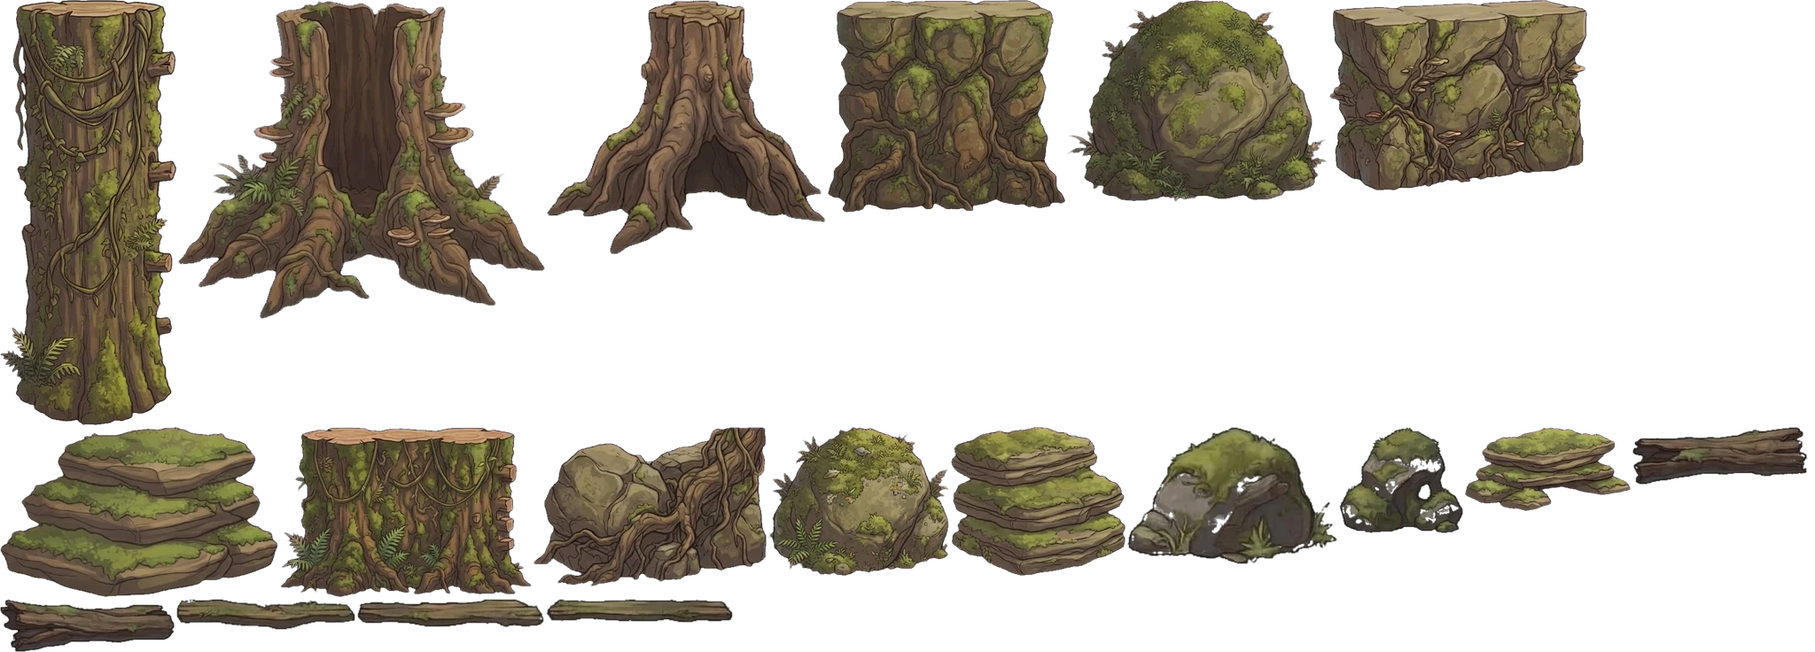
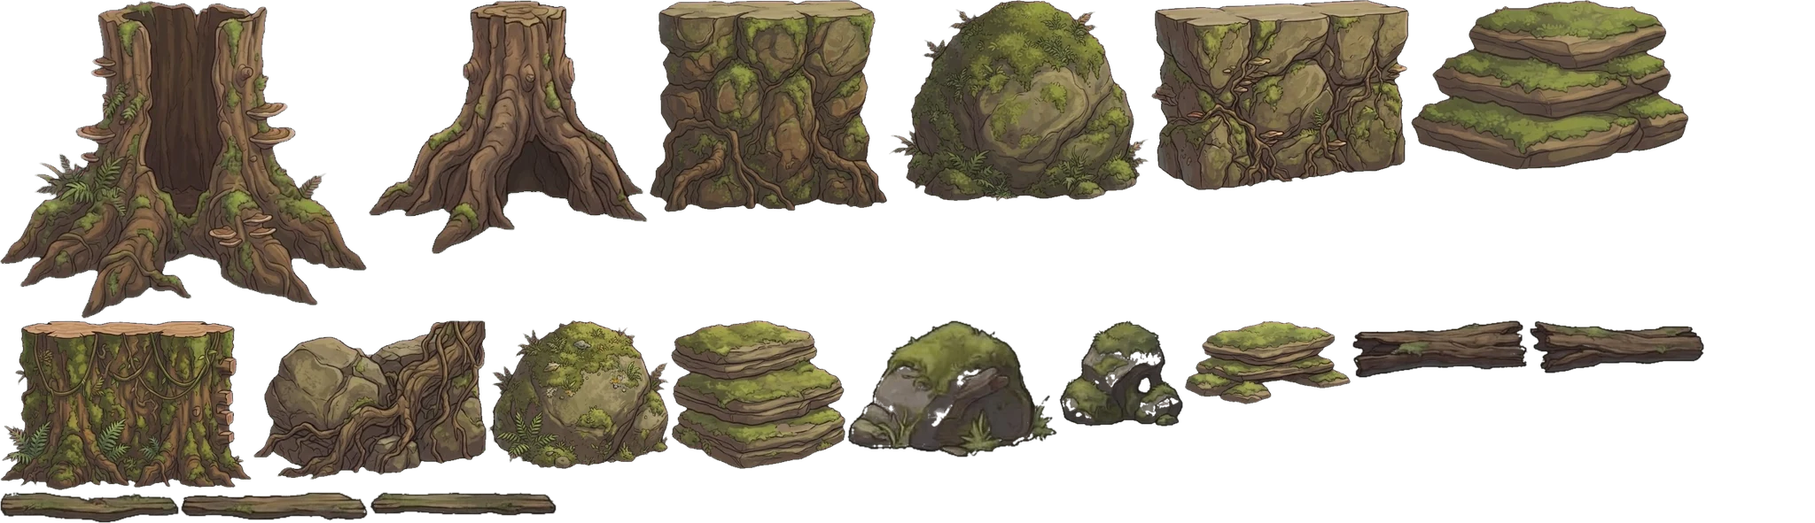
0.9.5 release rulings (the lead 11-06): 1-5 back to main's (its builder block, its petal goal, the stagePlan line and W1's words, stage15.test as on main; the mixer's 1-5 for later, R-165.45); roofedDrop on gen2-built stages only (4-9 as on main); stage11gen2's double-after-teach promise kept (a sof
Lock against main (16 layouts): 1-5, 1-6, 4-9, 5-9 identical.

Claude-Session: https://claude.ai/code/session_01FhBbYNa68MoMsiQdv2EJXg

diff --git a/src/game/stage15.test.ts b/src/game/stage15.test.ts
@@ -1,10 +1,8 @@
 import test from 'node:test';
 import assert from 'node:assert/strict';
-import { buildProtoStage, EXPERT_SECONDS } from './protoStage.ts';
-import { specFor } from './mixer/stages.ts';
-import { modelAll } from './stageTime.ts';
+import { buildProtoStage, EXPERT_SECONDS, G, PETAL_GOAL_15 } from './protoStage.ts';
 import { badPickups } from './flowerReach.ts';
-import { reachJump, JUMP_RISE, DOUBLE_RISE } from './physics.ts';
+import { reachJump, JUMP_RISE } from './physics.ts';
 import type { LevelConfig } from './types.ts';
 
 const cfg = {
@@ -13,92 +11,55 @@ const cfg = {
 } as LevelConfig;
 const SEEDS = Array.from({ length: 20 }, (_, i) => 1 + i * 41);
 
-// 1-5 is built by the level engine from its spec (mixer/stages.ts SPEC_15): the old builder's tests are kept promise for promise on the
-// mixed stage (engine-core, 11-05). The old stage asked for petals; the mixed 1-5 is a relic hunt for Meeca's marks (stagePlan.ts), so its
-// goal promises are made of its marks. Where the old test named the old stage's shape (its four beats, the ground line G, the lookout at
-// y 300), the new one names the spec's own (its nodes, its test nodes, the death line, the ledge before the seed).
-const SPEC = specFor('1-5')!;
-const marks = (st: { collectibles: Array<{ type: string; mark?: string }> }) => st.collectibles.filter((c) => c.type === 'relic' && c.mark === 'meeca');
-const deathOf = (st: { waterY?: number; config: LevelConfig }) => st.waterY ?? st.config.levelHeight;
-
-test('1-5: every roll keeps the plan (the spec\'s nodes in order), asks for its goal out of about one and a half times that, and takes two minutes', () => {
-  // (Normal's plan: a node laid on Easy only is not on it)
-  const jobs = [...new Set(SPEC.nodes.filter((n) => !n.lay?.easyOnly).map((n) => n.job))];
+test('1-5: every roll keeps the plan, asks for 77 petals out of about one and a half times that, and takes two minutes', () => {
   for (const s of SEEDS) {
     const st = buildProtoStage(cfg, s, '1-5');
-    assert.deepEqual([...new Set(st.proto.beats.map((b) => b[2].split(':')[0]))], jobs, `seed ${s}`);
-    const goal = st.normalGoal ?? st.config.targetCount;
-    const held = marks(st).length;
-    assert.ok(held >= goal * 1.4 && held <= goal * 1.6, `seed ${s}: ${held} marks for a goal of ${goal}`);
-    const fast = modelAll(st).fast.total;
-    assert.ok(fast >= EXPERT_SECONDS - 15, `seed ${s}: ${fast.toFixed(0)} s`);
-    assert.equal(st.proto.movedPickups ?? 0, 0, `seed ${s}`);
+    assert.deepEqual(st.proto.beats.map((b) => b[2].split(':')[0]), ['Start', 'Test', 'Twist', 'Finish'], `seed ${s}`);
+    assert.equal(st.config.targetCount, PETAL_GOAL_15);
+    const petals = st.collectibles.filter((c) => c.type === 'flower').length;
+    assert.ok(petals >= PETAL_GOAL_15 * 1.4 && petals <= PETAL_GOAL_15 * 1.6, `seed ${s}: ${petals} petals`);
+    assert.ok(st.meta!.timing!.layoutSeconds >= EXPERT_SECONDS - 15, `seed ${s}`);
+    assert.equal(st.proto.movedPickups, 0, `seed ${s}`);
     assert.equal(badPickups({ platforms: st.platforms, vines: st.vines, ropes: st.ropes, waterY: st.waterY }, st.collectibles).length, 0, `seed ${s}`);
   }
 });
 
-test('1-5: the test asks for every move so far: a climb, a double jump and a bounce (the rope and the punch: the next test)', () => {
+test('1-5: the test asks for every move so far: a climb, a rope, a double jump, a bounce and a punch', () => {
   for (const s of SEEDS) {
     const st = buildProtoStage(cfg, s, '1-5');
-    const tests = st.proto.beats.filter((b) => b[2].startsWith('test '));
-    assert.ok(tests.length, `seed ${s}: no test node`);
-    const inside = (x: number) => tests.some(([x0, x1]) => x >= x0 && x <= x1);
+    const [x0, x1] = st.proto.beats.find((b) => b[2].startsWith('Test'))!;
+    const inside = (x: number) => x >= x0 && x <= x1;
     assert.ok(st.vines.some((v) => v.vineType === 'tree_climb' && inside(v.x)), `seed ${s}: a climb`);
+    assert.ok(st.ropes!.some((r) => inside(r.x0)), `seed ${s}: a rope`);
     assert.ok(st.platforms.some((p) => p.type === 'bouncy' && inside(p.x)), `seed ${s}: a bounce`);
-    // pickups higher than one jump reaches from the piece under them, with nothing to stand on near them: double-jump pickups
-    const high = st.collectibles.filter((c) => (c.type === 'flower' || c.type === 'relic') && inside(c.x) && (() => {
-      const under = st.platforms.filter((p) => c.x >= p.x && c.x <= p.x + p.width && p.y > c.y).sort((a, b) => a.y - b.y)[0];
-      return !!under && under.y - c.y > JUMP_RISE + 20 + 34 && !st.platforms.some((p) => p !== under && p.y < under.y - 20 && p.y > c.y - 20 && c.x >= p.x - 40 && c.x <= p.x + p.width + 40);
-    })());
-    assert.ok(high.length >= 3, `seed ${s}: double-jump pickups (${high.length})`);
-  }
-});
-
-// (the lead, 11-06 9:21 AM, and the designer: the mixer has no rope idea and no punch idea, and gets no new beat (it is being retired). The
-// promise stays, run and reported as a known failure by name, carried to 1-5's move to gen2 (the designer's rope-gap spec is on file))
-test('1-5: the test asks for a rope and a punch', { todo: "known: the mixer's library has no rope or punch idea; carried to 1-5's gen2 move (lead 11-06 9:21 AM)" }, () => {
-  for (const s of SEEDS) {
-    const st = buildProtoStage(cfg, s, '1-5');
-    const tests = st.proto.beats.filter((b) => b[2].startsWith('test '));
-    const inside = (x: number) => tests.some(([x0, x1]) => x >= x0 && x <= x1);
-    assert.ok((st.ropes ?? []).some((r) => inside(r.x0)), `seed ${s}: a rope`);
     assert.ok(st.enemies.some((e) => inside(e.x)), `seed ${s}: something to punch`);
+    // petals higher than one jump reaches, over gaps only a double jump crosses
+    const high = st.collectibles.filter((c) => c.type === 'flower' && inside(c.x) && G - c.y > JUMP_RISE + 20 + 34 && !st.platforms.some((p) => p.y < G - 20 && c.x >= p.x - 40 && c.x <= p.x + p.width + 40));
+    assert.ok(high.length >= 3, `seed ${s}: double-jump petals (${high.length})`);
   }
 });
 
-// (the old 1-5's keepsake in a Hush Fern up a tree (protoStage.ts lookout): the mixer lays the find at the end and gets no new beat (the
-// lead, 11-06 9:21 AM); run and reported as a known failure by name, carried to 1-5's gen2 move)
-test('1-5: the keepsake hides in a fern up a tree', { todo: "known: the mixer lays the find at the stage's end, no fern-tree beat; carried to 1-5's gen2 move (lead 11-06 9:21 AM)" }, () => {
+test('1-5: creaking branches hold petals over safe ground (never needed to get through), the keepsake hides in a fern up a tree, a seed waits for the glide', () => {
   for (const s of SEEDS) {
     const st = buildProtoStage(cfg, s, '1-5');
-    const fern = st.collectibles.filter((c) => c.type === 'find');
-    assert.equal(fern.length, 1, `seed ${s}`);
-    assert.equal(fern[0].findId, 'w1_keepsake');
-    assert.equal(fern[0].hidden, true);
-    const floor = st.platforms.filter((p) => fern[0].x >= p.x && fern[0].x <= p.x + p.width && p.y > fern[0].y).sort((a, b) => b.y - a.y)[0];
-    assert.ok(floor && floor.y - fern[0].y > 200, `seed ${s}: up a tree`);
-  }
-});
-
-test('1-5: creaking branches over safe ground; no seed, but a glint out of reach where Dot says "Something shiny" (ruling (b)); the keepsake: the test before', () => {
-  for (const s of SEEDS) {
-    const st = buildProtoStage(cfg, s, '1-5');
-    const death = deathOf(st);
     const creaky = st.platforms.filter((p) => p.type === 'fragile');
     assert.ok(creaky.length >= 8, `seed ${s}`);
     for (const p of creaky) {
       const mid = p.x + p.width / 2;
-      assert.ok(st.platforms.some((q) => q !== p && q.type !== 'fragile' && q.y > p.y && q.y < death && q.x <= mid && q.x + q.width >= mid), `seed ${s}: nothing safe under the creaking branch at ${p.x}`);
+      assert.ok(st.platforms.some((q) => q.y === G && q.x <= mid && q.x + q.width >= mid), `seed ${s}: ground under the creaking branch at ${p.x}`);
     }
-    // (the seed waits for the glide, the designer's ruling (b) at CP3, restated 11-06: 1-5 lays no seed, and SHOWS it: a glint at the
-    // puzzle beat, out of every jump's reach, where Dot says "Something shiny, far away...")
-    assert.equal(st.collectibles.filter((c) => c.type === 'seed').length, 0, `seed ${s}: 1-5 lays no seed`);
-    const puzzle = st.proto.beats.filter((b) => b[2].startsWith('puzzle beat'));
-    const inPuzzle = (x: number) => puzzle.some(([x0, x1]) => x >= x0 - 200 && x <= x1 + 200);
-    const glint = (st.proto.glints ?? []).find((g) => inPuzzle(g.x));
-    assert.ok(glint, `seed ${s}: a glint at the puzzle beat`);
-    const near = st.platforms.filter((p) => p.x <= glint!.x + 200 && p.x + p.width >= glint!.x - 200);
-    assert.ok(near.every((p) => p.y - glint!.y > DOUBLE_RISE + 60), `seed ${s}: the glint out of reach (y ${glint!.y})`);
-    assert.ok((st.proto.hints ?? []).some((h) => /Something shiny/.test(h.text) && inPuzzle(h.x)), `seed ${s}: Dot's "Something shiny" at the puzzle beat`);
+    const fern = st.collectibles.filter((c) => c.type === 'find');
+    assert.equal(fern.length, 1);
+    assert.equal(fern[0].findId, 'w1_keepsake');
+    assert.equal(fern[0].hidden, true);
+    assert.ok(G - fern[0].y > 200, `seed ${s}: up a tree`);
+    // the far seed: past a double jump from the lookout, inside a glide
+    const seeds = st.collectibles.filter((c) => c.type === 'seed');
+    const far = seeds.find((c) => !st.platforms.some((p) => p.type === 'bouncy' && Math.abs(p.x - c.x) < 260));
+    assert.ok(far, `seed ${s}: a glide seed`);
+    const lookout = st.platforms.filter((p) => p.y === 300 && p.x < far!.x).sort((a, b) => b.x - a.x)[0];
+    const ledge = st.platforms.find((p) => far!.x >= p.x && far!.x <= p.x + p.width && Math.abs(p.y - (far!.y + 34)) < 2)!;
+    const gap = ledge.x - (lookout.x + lookout.width);
+    assert.ok(gap > reachJump(lookout.y - ledge.y, true) * 1.15, `seed ${s}: a double jump falls short (${gap})`);
   }
 });

diff --git a/src/game/protoStage.ts b/src/game/protoStage.ts
@@ -57,7 +57,8 @@ import { w1DressWidth } from './w1NewArt.ts';
 import { specFor as specForAll } from './mixer/stages.ts';
 import { skip11Spec } from './testlink1_1.ts';
 /** a stage's mixer spec, except 1-1 on the test link's 'Old 1-1' pick (testlink1_1.ts: main's builder as it is) */
-const specFor = (id: string) => (skip11Spec(id) ? undefined : specForAll(id as never));
+// (1-5 stays main's in 0.9.5, the lead 11-06: the mixer's 1-5 waits for a later release (R-165.45), so its spec is not used)
+const specFor = (id: string) => (skip11Spec(id) || id === '1-5' ? undefined : specForAll(id as never));
 import { clearDress, ownPetals, placeSeed } from './mixer/post.ts';
 import { dressSize } from './dressArt.ts';
 import { inDoorBox } from './mixer/propSupport.ts';
@@ -1969,6 +1970,37 @@ function buildPlan(config: LevelConfig, seed: number, plan: StagePlan, easy = fa
     run(R.r(190, 230));
     expert += (x - x0) / RUN + 1.6;
     pieces.push({ k: 'snakes', x0, x1: x });
+  }
+
+  // (main's 1-5, restored for 0.9.5: the mixer's 1-5 waits for a later release, R-165.45)
+  if (plan === '1-5') {
+    // 1-5 More Petals: everything so far, mixed. Every group of petals asks for a different move (a climb, a rope, a double jump, a
+    // bounce, a punch), then the petals go onto creaking branches that give way: grab and keep moving. The keepsake hides in a fern
+    // up a tree, and a seed far out from a lookout waits for the Leaf Glide.
+    // (Rebuilt 2026-10-28: a dip or a rock between the groups, and a finish of climbs, ropes, creaking runs and snakes, where 1-2's
+    // trail is bounces and stairs: the two read as different stages now.)
+    beat('Start', () => {
+      rest(R.r(400, 440));
+      busy(1, ['log']);
+      flag();
+    });
+    beat('Test: a move for every group', () => {
+      hint(x + 40, 'Every group of petals needs a different move', 'Every group of petals needs a different move', 'Every group of petals needs a different move');
+      // (every version climbs the tree with the keepsake in its fern: w1Sections.ts)
+      section('develop');
+      flag();
+    });
+    beat('Twist: creaking branches', () => {
+      hint(x + 60, 'Creaky branches! Grab the petals and keep moving', 'Creaky branches! Grab the petals and keep moving', 'Creaky branches! Grab the petals and keep moving');
+      section('twist');
+      flag();
+    });
+    beat('Finish', () => {
+      section('finish');
+      glideLookout();
+      homeRun();
+    });
+    thinFinish(135);
   }
 
   /** the bush sizes (px wide); each painting keeps its own shape */
@@ -5341,7 +5373,7 @@ function buildPlan(config: LevelConfig, seed: number, plan: StagePlan, easy = fa
   C.push({ id: cid++, type: 'exit_totem', x: exitX, y: G - 30, collected: false, bobPhase: 0 });
 
   const width = Math.ceil(x + 20);
-  const cfg: LevelConfig = { ...config, levelWidth: width, levelHeight: Math.max(config.levelHeight, 900), ...(plan === '1-2' ? { targetCount: PETAL_GOAL_12 } : plan === '1-3' ? { targetCount: SNAKE_GOAL_13 } : plan === '1-9' ? { targetCount: GUARD_GOAL_19 } : plan === '3-3' ? { targetCount: PROWLER_GOAL_33 } : plan === '3-6' ? { targetCount: GRANDMA_GOAL_36 } : plan === '3-7' ? { targetCount: GRANDMA_GOAL_37 } : plan === '3-9' ? { targetCount: PROWLER_GOAL_39 } : plan === '4-8' ? { targetCount: NEST_GOAL_48 } : {}) };
+  const cfg: LevelConfig = { ...config, levelWidth: width, levelHeight: Math.max(config.levelHeight, 900), ...(plan === '1-2' ? { targetCount: PETAL_GOAL_12 } : plan === '1-3' ? { targetCount: SNAKE_GOAL_13 } : plan === '1-5' ? { targetCount: PETAL_GOAL_15 } : plan === '1-9' ? { targetCount: GUARD_GOAL_19 } : plan === '3-3' ? { targetCount: PROWLER_GOAL_33 } : plan === '3-6' ? { targetCount: GRANDMA_GOAL_36 } : plan === '3-7' ? { targetCount: GRANDMA_GOAL_37 } : plan === '3-9' ? { targetCount: PROWLER_GOAL_39 } : plan === '4-8' ? { targetCount: NEST_GOAL_48 } : {}) };
   cid = heartsAtFlags(C, checkpoints, cid);
   // the puzzle rooms' own platforms (a seesaw's two ends, a gate's door): added once, here, so the game and the check see the same ground
   const kit: KitExtras | undefined = ROOMS.length ? { rooms: ROOMS } : undefined;

diff --git a/src/game/w1Pits.test.ts b/src/game/w1Pits.test.ts
@@ -57,10 +57,14 @@ test("1-8's long branch: the holes between the chase's sections are falls", () =
 test('World 1, layout 1: the vault pits are soft pits with steps; the only unmarked floorless gaps outside 1-8 are 1-6\'s water', () => {
   const soft: Record<string, number> = {}, falls: Record<string, number> = {};
   for (const id of ['1-1', '1-2', '1-3', '1-4', '1-5', '1-6', '1-7', '1-8', '1-9']) {
-    const g = findW1Pits(new RealPlay(id, 1).platforms);
+    const sim = new RealPlay(id, 1);
+    const g = findW1Pits(sim.platforms);
+    // (gen2's soft level gaps, heartFalls `soft`: a fall there puts him back on the take-off and draws a painted pit floor (stills,
+    // reference/qa-reports/engine-core/soft-gap): a soft pit, not water)
+    const softZones = (sim.stage.heartFalls ?? []).filter((z) => z.soft);
     soft[id] = g.filter((q) => q.kind === 'soft').length;
     // (unmarked floorless gaps, read as water: a builder's marked drop, `pit: 'drop'`, is a pit and is not counted here)
-    falls[id] = g.filter((q) => q.kind === 'fall' && !q.drop).length;
+    falls[id] = g.filter((q) => q.kind === 'fall' && !q.drop && !softZones.some((z) => q.x0 >= z.x0 - 4 && q.x1 <= z.x1 + 4)).length;
     // (a way out: a step standing in the pit, or the floor itself within a sunk step (75 px, findW1Pits' own rule) of the lower lip,
     // so he walks or hops straight out: 1-2's rebuilt root tier, layout 1, floor 930 against the bank at 880; the lead, 2026-11-04)
     for (const q of g.filter((q) => q.kind === 'soft')) assert.ok((q.steps ?? []).length >= 1 || q.floor! - q.top <= SUNK_STEP, `${id} ${q.x0}: a soft pit with no step out`);
@@ -129,9 +133,8 @@ test("World 1, 16 layouts: every painted drop has a bank of earth at both sides 
   }
   // (engine-core: only the mixer's stages mark drops, so drawW1Pits, which paints marked drops only, leaves every other World 1 stage
   // to main's painting; the rebuild's 1-3 box, R-164.6, is not on main)
-  for (const id of ['1-2', '1-3', '1-4', '1-6', '1-7', '1-8', '1-9']) for (const s of [1, 2]) assert.ok(!new RealPlay(id, s).platforms.some((q) => q.pit === 'drop'), `${id} layout ${s} marks a drop`);
-  // (1-1's Play is gen2 since 11-06, its drops painted by its own look: only the mixer's 1-5 marks drops now)
-  for (const id of ['1-5']) assert.ok(new RealPlay(id, 1).platforms.some((q) => q.pit === 'drop'), `${id} marks its drops`);
+  // (0.9.5: 1-5 is main's again, so no shipped World 1 stage lays the mixer's marked drops)
+  for (const id of ['1-2', '1-3', '1-4', '1-5', '1-6', '1-7', '1-8', '1-9']) for (const s of [1, 2]) assert.ok(!new RealPlay(id, s).platforms.some((q) => q.pit === 'drop'), `${id} layout ${s} marks a drop`);
 });
 
 test("a marked drop between two banks at any height is judged against its own two banks, not the stage's one ground line (the mixer's 1-5)", () => {
@@ -142,4 +145,11 @@ test("a marked drop between two banks at any height is judged against its own tw
   assert.ok(g && g.drop && g.walls && g.top === G - 300, JSON.stringify(findW1Pits(ps)));
   // (with a stone standing in it, it is open air)
   assert.ok(!findW1Pits([...ps, P(5, 2610, G - 290, 40, 50, D)]).some((q) => q.x0 === 2600 && q.walls));
+});
+
+test('a floorless gap inside a soft heartFalls zone is a soft pit, not water; one outside it still counts (planted)', () => {
+  const ps = [P(1, 0, G, 600, 90), P(2, 800, G, 600, 90), P(3, 1600, G, 600, 90)];
+  const zones = [{ x0: 600, x1: 800, soft: true }];
+  const falls = findW1Pits(ps).filter((q) => q.kind === 'fall' && !q.drop && !zones.some((z) => q.x0 >= z.x0 - 4 && q.x1 <= z.x1 + 4));
+  assert.deepEqual(falls.map((q) => Math.round(q.x0)), [1400], 'the gap at 1400 has no soft zone over it');
 });

diff --git a/src/game/gen2/stage11gen2.test.ts b/src/game/gen2/stage11gen2.test.ts
@@ -43,7 +43,7 @@ test('gen2 1-1 in the real engine: running into the first mushroom bounces him u
 });
 
 /** the double teach's gap: from the double teach node on, the first gap within 1,500 px a plain jump can't cross and a double can */
-function doubleGap(platforms: Platform[], tip: number, death: number): { a: Platform; b: Platform; safe: boolean } | undefined {
+function doubleGap(platforms: Platform[], tip: number, death: number, soft: ReadonlyArray<{ x0: number; x1: number; soft?: boolean }> = []): { a: Platform; b: Platform; safe: boolean } | undefined {
   const way: Platform[] = [];
   for (const p of platforms.filter((q) => q.type === 'solid' && q.x + q.width > tip).sort((a, b) => a.x - b.x)) {
     if (way.length && p.y > way[way.length - 1].y + 80) continue;
@@ -54,18 +54,19 @@ function doubleGap(platforms: Platform[], tip: number, death: number): { a: Plat
     if (b.x - (a.x + a.width) < 40 || b.x > tip + 1500) continue;
     if (jumpOK(a, b, false).ok || !jumpOK(a, b, true).ok) continue;
     const mid = (a.x + a.width + b.x) / 2;
-    return { a, b, safe: platforms.some((p) => p !== a && p !== b && p.x <= mid && p.x + p.width >= mid && p.y > Math.max(a.y, b.y) && p.y < death) };
+    // (safe: ground under the gap, or a soft heartFalls zone over it, where a miss puts him back on the take-off: the lead's ruling A)
+    return { a, b, safe: soft.some((z) => z.soft && mid >= z.x0 && mid <= z.x1) || platforms.some((p) => p !== a && p !== b && p.x <= mid && p.x + p.width >= mid && p.y > Math.max(a.y, b.y) && p.y < death) };
   }
   return undefined;
 }
 
-test('gen2 1-1: right after the double is taught, a gap only the second jump crosses (a miss lands him on safe ground under it)', { todo: 'known: the double is not required on gen2 1-1 yet (the block:\'double\' tags are held, reference/qa-reports/engine-core/held/double-tags.patch, on the planner\'s back-pit fix)' }, () => {
+test('gen2 1-1: right after the double is taught, a gap only the second jump crosses (a miss lands him on safe ground under it)', () => {
   const bad: string[] = [];
   for (const r of ROLLS) {
     const sim = roll(r), st = sim.stage as typeof sim.stage & { gen2?: { nodes?: Array<{ token: string; x0: number }> } };
     const teach = (st.gen2?.nodes ?? []).find((n) => /^T\w*2/.test(n.token));
     if (!teach) { bad.push(`Roll ${r}: no double teach node`); continue; }
-    const g = doubleGap(sim.platforms, teach.x0, st.waterY ?? st.config.levelHeight);
+    const g = doubleGap(sim.platforms, teach.x0, st.waterY ?? st.config.levelHeight, st.heartFalls ?? []);
     if (!g) bad.push(`Roll ${r}: no gap only the second jump crosses within 1,500 px of the teach (x ${Math.round(teach.x0)})`);
     else if (!g.safe) bad.push(`Roll ${r}: nothing under the double gap at ${Math.round(g.a.x + g.a.width)}`);
   }
@@ -183,4 +184,11 @@ test('gen2 1-1, a fresh save: walking in from the left, the bounce lesson comes 
   const sim = roll('B');
   const got = withLessons(sim, false);
   assert.equal(bounceLessonWalk(sim, got).at, undefined);
+});
+
+test('the double-gap safety reading: a soft zone over the gap is safe; a bare gap with nothing under it and no zone is not (planted)', () => {
+  const P = (id: number, x: number, y: number, width: number): Platform => ({ id, x, y, width, height: 300, type: 'solid', style: 'moss_stone' });
+  const ps = [P(1, 0, 600, 500), P(2, 700, 600, 500)];
+  assert.equal(doubleGap(ps, 0, 2000, [{ x0: 500, x1: 700, soft: true }])?.safe, true);
+  assert.equal(doubleGap(ps, 0, 2000, [])?.safe, false);
 });

diff --git a/src/game/stagePlan.ts b/src/game/stagePlan.ts
@@ -35,9 +35,7 @@ export const STAGE_PLAN: Record<number, StageSpec[]> = {
     S('harvest', 'The Petal Trail', 'Meeca left a trail of petals. Follow it and gather them.'),
     S('purge', 'Branch Snakes', 'Clear the snakes off the branches with your Claw Punches.'),
     S('ascent', 'Up the Kapok', 'Climb the giant kapok to the very top.'),
-    // (the mixer's 1-5 lays Meeca's trail marks as its goal, mixer/stages.ts SPEC_15 goal 'marks': follow them to the shrine, petals a
-    // bonus; the line approved by Matt, 2026-11-04)
-    S('relic_hunt', 'Where She Walked', 'Meeca marked the trees as she walked. Follow her marks to the shrine.'),
+    S('harvest', 'Where She Walked', 'The petals go on. Gather more.'),
     S('vine_runner', 'First Lianas', 'Swing on the hanging lianas across the gaps in the canopy.'),
     S('stealth', 'A Very Good Bush', 'Eagles are watching. Duck under the leaves the way Dot hid from the soldiers.'),
     S('sprint', 'The Long Branch', 'Race the long branch to the shrine.'),
@@ -187,7 +185,7 @@ function GOAL_WORDS(world: number, type: string): { verb: string; one: string; m
     return { verb: 'Collect', one, many };
   }
   if (type === 'relic_hunt') {
-    const w = ({ 1: ['mark', 'marks'], 3: ['keepsake', 'keepsakes'], 5: ['message', 'messages'], 9: ['thread', 'threads'] } as Record<number, string[]>)[world] ?? ['relic', 'relics'];
+    const w = ({ 3: ['keepsake', 'keepsakes'], 5: ['message', 'messages'], 9: ['thread', 'threads'] } as Record<number, string[]>)[world] ?? ['relic', 'relics'];
     return { verb: 'Find', one: w[0], many: w[1] };
   }
   // (4-9 The Aerie counts the capuchin guards, and its counter says "guards": the goal says the same)
@@ -200,7 +198,7 @@ function GOAL_WORDS(world: number, type: string): { verb: string; one: string; m
 /** the word the HUD counts in: what this world's harvest gathers and its searches find */
 export function countWord(world: number, type: string): string {
   if (type === 'harvest') return world === 1 ? 'petals' : world === 8 ? 'night blooms' : 'flowers';
-  if (type === 'relic_hunt') return ({ 1: 'marks', 3: 'keepsakes', 5: 'messages', 9: 'threads' } as Record<number, string>)[world] ?? 'relics';
+  if (type === 'relic_hunt') return ({ 3: 'keepsakes', 5: 'messages', 9: 'threads' } as Record<number, string>)[world] ?? 'relics';
   // (4-9 The Aerie: the capuchin guards the wind blows off their ledges)
   if (type === 'gauntlet' && world === 4) return 'guards';
   if (type === 'purge' || type === 'gauntlet') return 'predators';

diff --git a/src/game/levelCheck.ts b/src/game/levelCheck.ts
@@ -482,6 +482,7 @@ export function validateStage(stage: GeneratedStage, opts: CheckOptions = {}): C
    * from the run only if an open edge lies within half the fall's reach of it (out and back). A run's edge is closed where a piece at its
    * height or higher stands against it (a wall, or the road going on)
    */
+  const gen2Built = !!(stage as { gen2?: unknown }).gen2;
   const roofedDrop = (a: Platform, b: Platform, bx0: number, bx1: number, dy: number): boolean => {
     let rx0 = ext(a)[0], rx1 = ext(a)[1];
     for (let grew = true; grew; ) {
@@ -561,7 +562,9 @@ export function validateStage(stage: GeneratedStage, opts: CheckOptions = {}): C
         if (r >= 0 && gap <= r * MARGIN - TAKEOFF_SLACK) {
           if (pouring.length && waterBetween(ax0, ax1, a.y, bx0, bx1, b.y)) continue;
           if (a.type !== 'bouncy' && blockBetween(a, b, ax0, ax1, bx0, bx1)) continue;
-          if (a.type !== 'bouncy' && dy < -8 && roofedDrop(a, b, bx0, bx1, dy)) continue;
+          // (gen2 stages only for this release, the lead 11-06: roofedDrop moved 4-9 layout 4's find; only 1-1 may change in 0.9.5, so the
+          // old generator's stages keep main's check: 4-9's dead stair is its own roadmap item)
+          if (gen2Built && a.type !== 'bouncy' && dy < -8 && roofedDrop(a, b, bx0, bx1, dy)) continue;
           link(pid(a), pid(b));
           if (a.type !== 'bouncy') maxGapUsed = Math.max(maxGapUsed, gap);
         }

diff --git a/src/game/stageGenerator.ts b/src/game/stageGenerator.ts
@@ -2872,7 +2872,7 @@ export function generateStage(config: LevelConfig, difficulty: Difficulty = 'nor
   if (HAND_STAGES[config.id] && !config.secret && protoStageEnabled() && !gen2Roll11) {
     // (a stage the mixer builds from its spec, 1-1 and 1-5, lays Easy itself: mixer/w1mix.ts; the rest are made gentler on the built
     // stage alone, easyMode.ts)
-    const st = flagsCapped(buildProtoStage(config, layoutVariant ?? 1, HAND_STAGES[config.id], difficulty === 'easy' && !skip11Spec(config.id) && !!specFor(HAND_STAGES[config.id])));
+    const st = flagsCapped(buildProtoStage(config, layoutVariant ?? 1, HAND_STAGES[config.id], difficulty === 'easy' && !skip11Spec(config.id) && config.id !== '1-5' && !!specFor(HAND_STAGES[config.id])));
     addMissingFind(st);
     return difficulty === 'normal' ? w4Normal(st) : st;
   }

diff --git a/src/game/stageSheets.ts b/src/game/stageSheets.ts
@@ -208,7 +208,8 @@ export function stageSheets(cfg: Pick<LevelConfig, 'id' | 'worldIndex' | 'object
   // 1's new pieces, w1NewArt.ts: the sheet is 1996x925, about 7 MB decoded, so only where laid; a spec with water (1-5's creek, profile
   // water) its deadly creek (w1Creek.ts) and the lily pads on it, drawn with World 2's painted pad (engine.ts paintedRivers, 738 KB).
   // No spec lays calm swim water yet: calm-water joins when one does)
-  const spec = built ? specFor(cfg.id) : undefined;
+  // (1-5 stays main's in 0.9.5: protoStage.ts)
+  const spec = built && cfg.id !== '1-5' ? specFor(cfg.id) : undefined;
   if (spec) out.push('pit-art:1');
   if (spec?.dress) out.push('w1-new');
   if (spec?.profile.water) out.push('creek:1', 'w2-props');

diff --git a/tools/art/packcut.py b/tools/art/packcut.py
@@ -18,7 +18,8 @@ OUT_JSON = GAME / 'src/assets/w1to4art/w1-cut.json'
 KEEP = {
     'stone': ['w1-rock-boulder-moss', 'w1-rock-boulder-moss-big', 'w1-boulder-grey-moss', 'w1-boulder-grey-moss-b', 'w1-rock-block-big',
               'w1-rock-root-block', 'w1-rock-slabs-stacked', 'w1-rock-slabs-stacked-big', 'w1-rock-slabs-low', 'w1-rock-roots'],
-    'stump': ['w1-stump-wide', 'w1-post-tall-vine'],
+    # (w1-post-tall-vine unpacked for 0.9.5: nothing lays it, artUse; the art director's cut stays in reference/art/cut)
+    'stump': ['w1-stump-wide'],
     'perch': ['w1-hide-stump-hollow', 'w1-hide-stump-hollow-tall'],
     'log': ['w1-log-plank-a', 'w1-log-plank-b', 'w1-plank-ledge-a', 'w1-plank-ledge-b', 'w1-plank-ledge-c'],
 }
